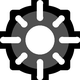
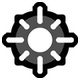
Refresh editor tool assets and toolbar button helpers

diff --git a/src/features/editor-suite/EditorAssets.cpp b/src/features/editor-suite/EditorAssets.cpp
@@ -66,18 +66,12 @@ CCSprite* loadIcon(
     return spr;
 }
 
-CircleButtonSprite* circleIcon(
-    char const* preferredPaim,
-    std::initializer_list<char const*> fallbacks,
-    float topScale,
-    CircleBaseColor color,
-    CircleBaseSize size
-) {
+CCNode* wrappedIcon(char const* preferredPaim, std::initializer_list<char const*> fallbacks) {
     auto* icon = loadIcon(preferredPaim, fallbacks);
     if (!icon) return nullptr;
 
-    // circlebuttonsprite needs a sized top node with a centered anchor —
-    // basedbuttonsprite positions the top by center assuming anchor 0.5.
+    // basedbuttonsprite positions the top by center assuming anchor 0.5,
+    // so it needs a sized top node.
     auto* wrap = CCNode::create();
     auto sz = icon->getContentSize();
     if (sz.width < 1.f || sz.height < 1.f) sz = CCSize{20.f, 20.f};
@@ -85,11 +79,30 @@ CircleButtonSprite* circleIcon(
     wrap->setAnchorPoint({0.5f, 0.5f});
     icon->setPosition(sz / 2.f);
     wrap->addChild(icon);
+    return wrap;
+}
 
+CircleButtonSprite* circleIcon(
+    char const* preferredPaim,
+    std::initializer_list<char const*> fallbacks,
+    float topScale,
+    CircleBaseColor color,
+    CircleBaseSize size
+) {
+    auto* wrap = wrappedIcon(preferredPaim, fallbacks);
+    if (!wrap) return nullptr;
     auto* base = CircleButtonSprite::create(wrap, color, size);
     if (!base) return nullptr;
     base->setTopRelativeScale(topScale);
     return base;
+}
+
+CCMenuItemSpriteExtra* menuItem(CCSprite* sprite, std::function<void()> onClick) {
+    return CCMenuItemExt::createSpriteExtra(
+        sprite, [cb = std::move(onClick)](CCMenuItemSpriteExtra*) {
+            if (cb) cb();
+        }
+    );
 }
 
 } // namespace
@@ -108,11 +121,25 @@ CCMenuItemSpriteExtra* circleButton(
 ) {
     auto* base = circleIcon(preferredPaim, fallbacks, topScale, color, size);
     if (!base) return nullptr;
-    return CCMenuItemExt::createSpriteExtra(
-        base, [cb = std::move(onClick)](CCMenuItemSpriteExtra*) {
-            if (cb) cb();
-        }
-    );
+    return menuItem(base, std::move(onClick));
+}
+
+CCMenuItemSpriteExtra* squareButton(
+    char const* preferredPaim,
+    std::initializer_list<char const*> fallbacks,
+    float topScale,
+    EditorBaseColor color,
+    std::function<void()> onClick,
+    float targetSize
+) {
+    auto* wrap = wrappedIcon(preferredPaim, fallbacks);
+    if (!wrap) return nullptr;
+    auto* base = EditorButtonSprite::create(wrap, color);
+    if (!base) return nullptr;
+    base->setTopRelativeScale(topScale);
+    auto const h = base->getContentSize().height;
+    if (targetSize > 0.f && h > 0.f) base->setScale(targetSize / h);
+    return menuItem(base, std::move(onClick));
 }
 
 } // namespace paimon::editor::assets

diff --git a/src/features/gif-import/hooks/GifImportEditorButton.cpp b/src/features/gif-import/hooks/GifImportEditorButton.cpp
@@ -34,13 +34,13 @@ class $modify(PaimonGifImportEditorUI, EditorUI) {
         if (!EditorUI::init(editorLayer)) return false;
         if (!enabled()) return true;
 
-        auto* button = paimon::editor::assets::circleButton(
+        auto* button = paimon::editor::assets::squareButton(
             "paim_gif_import.png",
             {"GJ_downloadBtn_001.png", "GJ_artBtn_001.png", "GJ_optionsBtn_001.png"},
             0.9f,
-            CircleBaseColor::Green,
+            EditorBaseColor::Green,
             [] { openImporter(); },
-            CircleBaseSize::Tiny
+            paimon::editor::toolbarToggleSize(this)
         );
         if (!button) return true;
         button->setID("gif-import-button"_spr);

diff --git a/src/features/editor-animate/hooks/AnimateEditorHooks.cpp b/src/features/editor-animate/hooks/AnimateEditorHooks.cpp
@@ -108,13 +108,13 @@ class $modify(PaimonAnimateEditorUI, EditorUI) {
         if (!EditorUI::init(editorLayer)) return false;
         if (!enabled()) return true;
 
-        auto* button = paimon::editor::assets::circleButton(
+        auto* button = paimon::editor::assets::squareButton(
             "paim_animate.png",
             {"GJ_playEditorBtn_001.png", "GJ_optionsBtn_001.png"},
-            0.72f,
-            CircleBaseColor::Green,
+            0.85f,
+            EditorBaseColor::Green,
             [] { toggleTimeline(); },
-            CircleBaseSize::Tiny
+            paimon::editor::toolbarToggleSize(this)
         );
         if (!button) return true;
         button->setID("animate-button"_spr);

diff --git a/src/features/editor-physics/hooks/PhysicsEditorButton.cpp b/src/features/editor-physics/hooks/PhysicsEditorButton.cpp
@@ -62,13 +62,13 @@ class $modify(PaimonPhysicsEditorUI, EditorUI) {
         if (!EditorUI::init(editorLayer)) return false;
         if (!enabled()) return true;
 
-        auto* button = paimon::editor::assets::circleButton(
+        auto* button = paimon::editor::assets::squareButton(
             "paim_physics.png",
             {"GJ_gravityBtn_001.png", "GJ_moveBtn_001.png", "GJ_optionsBtn_001.png"},
             0.9f,
-            CircleBaseColor::Green,
+            EditorBaseColor::Green,
             [] { openLab(); },
-            CircleBaseSize::Tiny
+            paimon::editor::toolbarToggleSize(this)
         );
         if (!button) return true;
         button->setID("physics-lab-button"_spr);

diff --git a/src/features/editor-suite/EditorHelpers.cpp b/src/features/editor-suite/EditorHelpers.cpp
@@ -26,6 +26,14 @@ CCMenu* hostToolbarMenu(EditorUI* ui) {
     return nullptr;
 }
 
+float toolbarToggleSize(EditorUI* ui) {
+    if (!ui) return 0.f;
+    for (auto* btn : {ui->m_swipeBtn, ui->m_freeMoveBtn, ui->m_snapBtn}) {
+        if (btn) return btn->getContentSize().height;
+    }
+    return 0.f;
+}
+
 void focusCameraOnPoint(LevelEditorLayer* lel, CCPoint objectSpace) {
     if (!lel || !lel->m_objectLayer) return;
     auto* layer = lel->m_objectLayer;

diff --git a/src/features/editor-suite/EditorAssets.hpp b/src/features/editor-suite/EditorAssets.hpp
@@ -23,4 +23,14 @@ CCMenuItemSpriteExtra* circleButton(
     geode::CircleBaseSize size = geode::CircleBaseSize::Tiny
 );
 
+// targetSize <= 0 keeps the base's native size.
+CCMenuItemSpriteExtra* squareButton(
+    char const* preferredPaim,
+    std::initializer_list<char const*> fallbacks,
+    float topScale,
+    geode::EditorBaseColor color,
+    std::function<void()> onClick,
+    float targetSize = 0.f
+);
+
 } // namespace paimon::editor::assets

diff --git a/src/features/editor-suite/EditorHelpers.hpp b/src/features/editor-suite/EditorHelpers.hpp
@@ -8,6 +8,8 @@
 namespace paimon::editor {
 
 cocos2d::CCMenu* hostToolbarMenu(EditorUI* ui);
+// unscaled height of the vanilla swipe/rotate toggles, 0 if unknown.
+float toolbarToggleSize(EditorUI* ui);
 void focusCameraOnPoint(LevelEditorLayer* lel, cocos2d::CCPoint objectSpace);
 
 // keybinds check this so they don't fire while typing.
